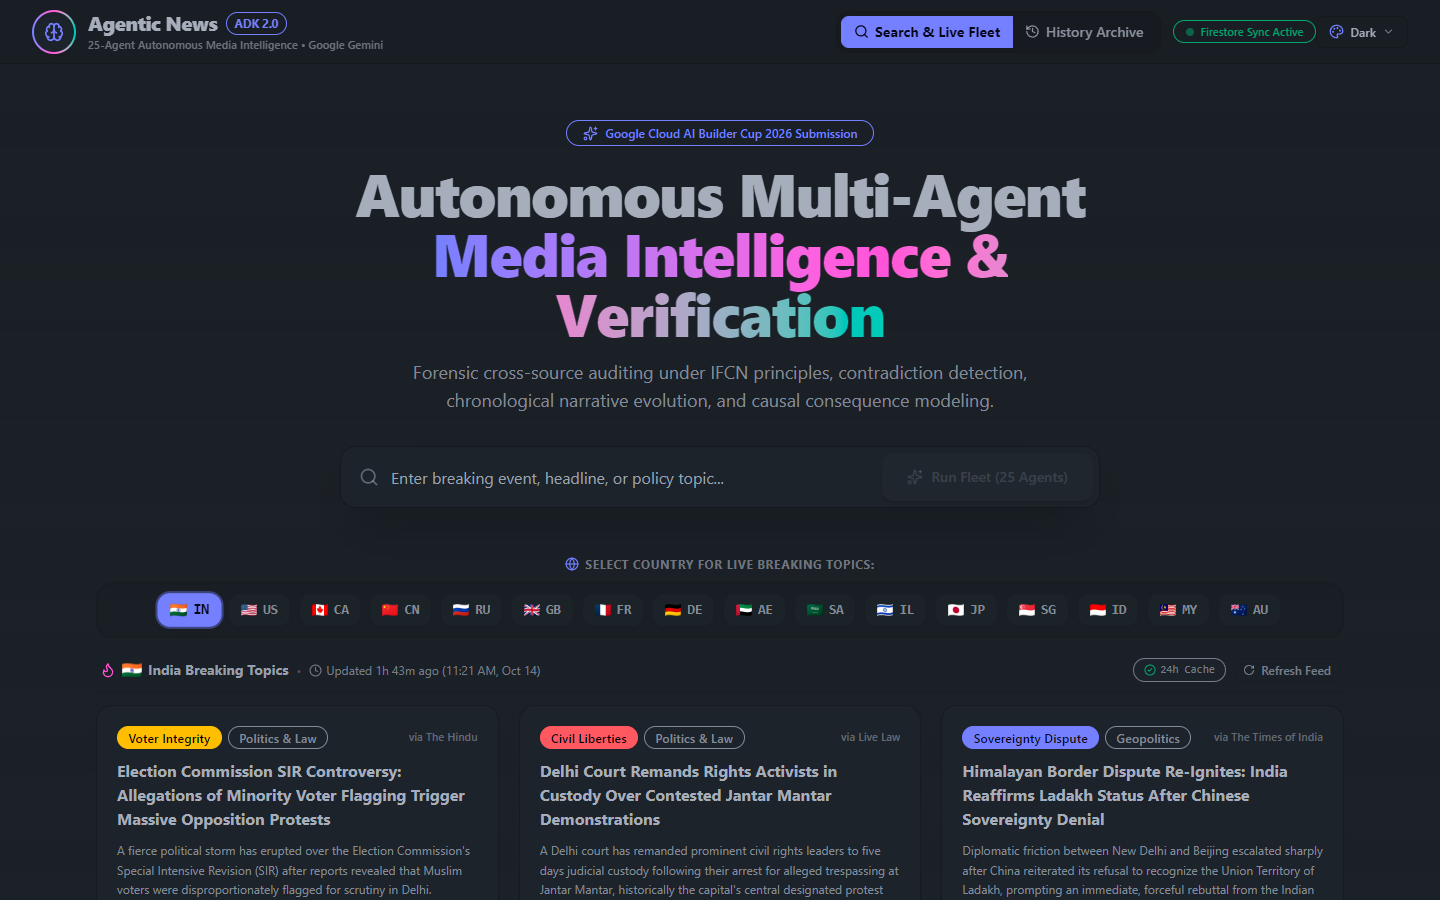
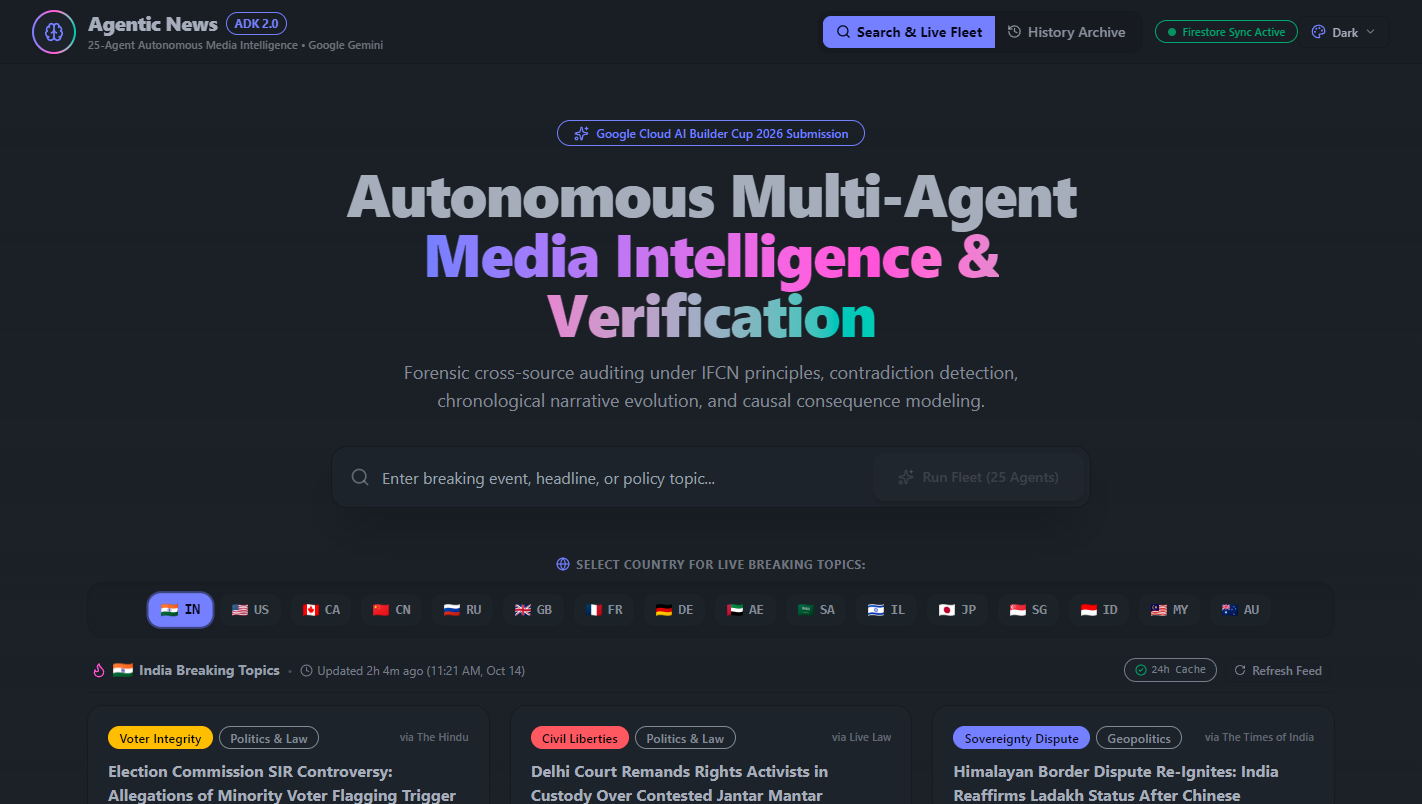
fix(docs): fix scrolling blank area and polish smooth looping animations for submission GIFs

diff --git a/backend/tests/generate_all_submission_media.js b/backend/tests/generate_all_submission_media.js
@@ -1,0 +1,349 @@
+/**
+ * Master Script: Automated Capture and Generation of Dynamic Submission Media
+ * 
+ * Features:
+ * 1. Pixel-perfect screenshots using modern Chrome CDP (headless=new).
+ * 2. Sticky Navbar & Sticky Sidebar preserved (no blank top regions!).
+ * 3. Smooth multi-frame scrolling animations for all 8 analysis tabs and History archive.
+ * 4. Infinite looping (Netscape 2.0 loop extension injected into all GIFs).
+ * 5. Generates both crisp static PNGs and looping GIFs under 10 MB total.
+ */
+
+const { spawn } = require('child_process');
+const http = require('http');
+const fs = require('fs');
+const os = require('os');
+const path = require('path');
+
+const ASSETS_DIR = path.resolve(__dirname, '../../docs/submission/assets');
+const TEMP_DIR = path.resolve(__dirname, 'temp_frames');
+
+if (!fs.existsSync(ASSETS_DIR)) fs.mkdirSync(ASSETS_DIR, { recursive: true });
+if (!fs.existsSync(TEMP_DIR)) fs.mkdirSync(TEMP_DIR, { recursive: true });
+
+function patchGifMultiDelay(gifPath, delays100ths) {
+  const data = fs.readFileSync(gifPath);
+  let gceIndex = 0;
+  let i = 0;
+  const out = Buffer.from(data);
+
+  while (i < out.length - 7) {
+    if (out[i] === 0x21 && out[i + 1] === 0xF9 && out[i + 2] === 0x04) {
+      const delay = delays100ths[gceIndex % delays100ths.length];
+      out[i + 4] = delay & 0xFF;
+      out[i + 5] = (delay >> 8) & 0xFF;
+      gceIndex++;
+      i += 7;
+    } else {
+      i++;
+    }
+  }
+
+  let finalBuf = out;
+  if (!out.includes(Buffer.from('NETSCAPE2.0'))) {
+    const firstGce = out.indexOf(Buffer.from([0x21, 0xF9, 0x04]));
+    if (firstGce !== -1) {
+      const netscapeExt = Buffer.from([
+        0x21, 0xFF, 0x0B, 0x4E, 0x45, 0x54, 0x53, 0x43, 0x41, 0x50, 0x45, 0x32, 0x2E, 0x30, 0x03, 0x01, 0x00, 0x00, 0x00
+      ]);
+      finalBuf = Buffer.concat([out.subarray(0, firstGce), netscapeExt, out.subarray(firstGce)]);
+    }
+  }
+
+  fs.writeFileSync(gifPath, finalBuf);
+}
+
+function buildGifFromFrames(framePaths, targetGif, delays, width = 960, height = 600) {
+  const framesArg = framePaths.map(p => `'${p.replace(/'/g, "''")}'`).join(',');
+  const psScript = `
+    Add-Type -AssemblyName System.Drawing
+    $frames = @(${framesArg})
+    $target = '${targetGif.replace(/'/g, "''")}'
+
+    $sourceImages = @()
+    foreach ($f in $frames) {
+        $orig = [System.Drawing.Image]::FromFile($f)
+        $bmp = New-Object System.Drawing.Bitmap ${width}, ${height}
+        $g = [System.Drawing.Graphics]::FromImage($bmp)
+        $g.InterpolationMode = [System.Drawing.Drawing2D.InterpolationMode]::HighQualityBicubic
+        $g.DrawImage($orig, 0, 0, ${width}, ${height})
+        $g.Dispose()
+        $orig.Dispose()
+        $sourceImages += $bmp
+    }
+
+    $codec = [System.Drawing.Imaging.ImageCodecInfo]::GetImageEncoders() | Where-Object { $_.MimeType -eq "image/gif" }
+    $encParamsFirst = New-Object System.Drawing.Imaging.EncoderParameters 1
+    $encParamsFirst.Param[0] = New-Object System.Drawing.Imaging.EncoderParameter ([System.Drawing.Imaging.Encoder]::SaveFlag, [long][System.Drawing.Imaging.EncoderValue]::MultiFrame)
+    $encParamsAdd = New-Object System.Drawing.Imaging.EncoderParameters 1
+    $encParamsAdd.Param[0] = New-Object System.Drawing.Imaging.EncoderParameter ([System.Drawing.Imaging.Encoder]::SaveFlag, [long][System.Drawing.Imaging.EncoderValue]::FrameDimensionTime)
+    $encParamsFlush = New-Object System.Drawing.Imaging.EncoderParameters 1
+    $encParamsFlush.Param[0] = New-Object System.Drawing.Imaging.EncoderParameter ([System.Drawing.Imaging.Encoder]::SaveFlag, [long][System.Drawing.Imaging.EncoderValue]::Flush)
+
+    $first = $sourceImages[0]
+    $first.Save($target, $codec, $encParamsFirst)
+    for ($i = 1; $i -lt $sourceImages.Count; $i++) {
+        $first.SaveAdd($sourceImages[$i], $encParamsAdd)
+    }
+    $first.SaveAdd($encParamsFlush)
+    foreach ($img in $sourceImages) { $img.Dispose() }
+  `;
+
+  return new Promise((resolve, reject) => {
+    const child = spawn('powershell', ['-NoProfile', '-Command', psScript]);
+    child.on('close', code => {
+      if (code === 0) {
+        patchGifMultiDelay(targetGif, delays);
+        const sizeKb = (fs.statSync(targetGif).size / 1024).toFixed(1);
+        console.log(`  -> Generated ${path.basename(targetGif)} (${sizeKb} KB, infinite loop)`);
+        resolve();
+      } else {
+        reject(new Error(`PowerShell GIF assembly failed with code ${code}`));
+      }
+    });
+  });
+}
+
+class ChromeClient {
+  constructor(port = 9345) {
+    this.port = port;
+    this.chromeProcess = null;
+    this.ws = null;
+    this.msgId = 1;
+  }
+
+  async start() {
+    const userData = path.join(os.tmpdir(), 'chrome_media_' + Date.now());
+    this.chromeProcess = spawn('C:\\Program Files\\Google\\Chrome\\Application\\chrome.exe', [
+      '--headless=new',
+      `--remote-debugging-port=${this.port}`,
+      '--window-size=1440,900',
+      '--hide-scrollbars',
+      `--user-data-dir=${userData}`,
+      'about:blank'
+    ]);
+
+    await new Promise(r => setTimeout(r, 2000));
+
+    const targets = await new Promise((resolve, reject) => {
+      http.get(`http://127.0.0.1:${this.port}/json`, res => {
+        let data = '';
+        res.on('data', chunk => data += chunk);
+        res.on('end', () => resolve(JSON.parse(data)));
+      }).on('error', reject);
+    });
+
+    const target = targets.find(t => t.type === 'page');
+    if (!target) throw new Error('No page target found in Chrome');
+
+    this.ws = new WebSocket(target.webSocketDebuggerUrl);
+    await new Promise((resolve) => this.ws.onopen = resolve);
+    await this.send('Page.enable');
+  }
+
+  send(method, params = {}) {
+    return new Promise((resolve) => {
+      const id = this.msgId++;
+      const handler = (evt) => {
+        const resp = JSON.parse(evt.data);
+        if (resp.id === id) {
+          this.ws.removeEventListener('message', handler);
+          resolve(resp.result);
+        }
+      };
+      this.ws.addEventListener('message', handler);
+      this.ws.send(JSON.stringify({ id, method, params }));
+    });
+  }
+
+  async navigate(url, waitMs = 2500) {
+    await this.send('Page.navigate', { url });
+    await new Promise(r => setTimeout(r, waitMs));
+  }
+
+  async evaluate(expression) {
+    return await this.send('Runtime.evaluate', { expression, returnByValue: true });
+  }
+
+  async screenshot(filePath) {
+    const res = await this.send('Page.captureScreenshot', { format: 'png' });
+    fs.writeFileSync(filePath, Buffer.from(res.data, 'base64'));
+  }
+
+  close() {
+    try { if (this.ws) this.ws.close(); } catch (_) {}
+    try { if (this.chromeProcess) this.chromeProcess.kill(); } catch (_) {}
+  }
+}
+
+async function main() {
+  console.log('================================================================');
+  console.log(' Automated Media Generator: High-Fidelity Looping GIFs & Static Assets');
+  console.log('================================================================');
+
+  const client = new ChromeClient(9346);
+  await client.start();
+
+  try {
+    // -------------------------------------------------------------
+    // 1. Home Dashboard: 5 Countries Looping GIF
+    // -------------------------------------------------------------
+    console.log('\n[1/4] Capturing 5-Country Regional Dashboard...');
+    const countries = [
+      { code: 'IN', label: 'India 🇮🇳' },
+      { code: 'US', label: 'United States 🇺🇸' },
+      { code: 'GB', label: 'United Kingdom 🇬🇧' },
+      { code: 'JP', label: 'Japan 🇯🇵' },
+      { code: 'DE', label: 'Germany 🇩🇪' }
+    ];
+
+    const countryFrames = [];
+    for (const c of countries) {
+      console.log(`  Capturing ${c.label} (?country=${c.code})...`);
+      await client.navigate(`http://localhost:5173/?country=${c.code}`, 2200);
+      const framePath = path.join(TEMP_DIR, `home_country_${c.code}.png`);
+      await client.screenshot(framePath);
+      countryFrames.push(framePath);
+    }
+
+    // Static default hero overview
+    fs.copyFileSync(countryFrames[0], path.join(ASSETS_DIR, 'hero-overview.png'));
+    await buildGifFromFrames(
+      countryFrames,
+      path.join(ASSETS_DIR, 'home-countries.gif'),
+      [280, 280, 280, 280, 280]
+    );
+
+    // -------------------------------------------------------------
+    // 2. 8 Analysis Tabs: Smooth Multi-Frame Scrolling GIFs
+    // -------------------------------------------------------------
+    console.log('\n[2/4] Capturing 8 Multi-Section Analysis Tabs with Smooth Scrolling...');
+    const analysisUrl = 'http://localhost:5173/analysis/09c0dbae-2b01-4852-83de-ddc89fdb6614';
+
+    const tabs = [
+      { name: 'tab-01-brief', hash: '#brief', maxScroll: 660 },
+      { name: 'tab-02-sources', hash: '#sources', maxScroll: 620 },
+      { name: 'tab-03-verification', hash: '#verification', maxScroll: 660 },
+      { name: 'tab-04-timeline', hash: '#timeline', maxScroll: 600 },
+      { name: 'tab-05-insights', hash: '#insights', maxScroll: 650 },
+      { name: 'tab-06-quiz', hash: '#quiz', maxScroll: 520 },
+      { name: 'tab-07-debate', hash: '#debate', maxScroll: 560 },
+      { name: 'tab-08-copilot', hash: '#copilot', maxScroll: 480 },
+    ];
+
+    const walkthroughFrames = [path.join(ASSETS_DIR, 'hero-overview.png')];
+
+    // Load analysis page once, then switch hashes
+    await client.navigate(`${analysisUrl}#brief`, 2500);
+
+    for (const tab of tabs) {
+      console.log(`\n  Processing ${tab.name} (${tab.hash})...`);
+
+      // Switch tab and wait for tab transition
+      await client.evaluate(`
+        window.location.hash = '${tab.hash}';
+        window.dispatchEvent(new HashChangeEvent('hashchange'));
+        window.scrollTo({ top: 0, behavior: 'instant' });
+      `);
+      await new Promise(r => setTimeout(r, 600));
+
+      // 1. Capture Top Resting View (Scroll 0)
+      const topFrame = path.join(TEMP_DIR, `${tab.name}_top.png`);
+      await client.screenshot(topFrame);
+      // Save crisp static PNG for documentation
+      fs.copyFileSync(topFrame, path.join(ASSETS_DIR, `${tab.name}.png`));
+      walkthroughFrames.push(topFrame);
+
+      // 2. Capture Smooth Multi-Frame Scroll
+      const s1 = Math.round(tab.maxScroll * 0.33);
+      const s2 = Math.round(tab.maxScroll * 0.67);
+      const sMax = tab.maxScroll;
+      const sBack = Math.round(tab.maxScroll * 0.50);
+
+      const scrollSteps = [
+        { pos: 0, delay: 260 },      // Top view rests for 2.6s
+        { pos: s1, delay: 16 },      // Smooth scroll step 1 (0.16s)
+        { pos: s2, delay: 16 },      // Smooth scroll step 2 (0.16s)
+        { pos: sMax, delay: 280 },    // Deep dive view rests for 2.8s
+        { pos: sBack, delay: 16 }     // Smooth scroll return (0.16s)
+      ];
+
+      const tabFrames = [topFrame];
+
+      for (let i = 1; i < scrollSteps.length; i++) {
+        const step = scrollSteps[i];
+        await client.evaluate(`window.scrollTo({ top: ${step.pos}, behavior: 'instant' });`);
+        await new Promise(r => setTimeout(r, 120));
+        const fPath = path.join(TEMP_DIR, `${tab.name}_step_${i}.png`);
+        await client.screenshot(fPath);
+        tabFrames.push(fPath);
+      }
+
+      // Reset scroll to top
+      await client.evaluate(`window.scrollTo({ top: 0, behavior: 'instant' });`);
+      await new Promise(r => setTimeout(r, 100));
+
+      // Build smooth scrolling GIF
+      const delays = scrollSteps.map(s => s.delay);
+      await buildGifFromFrames(tabFrames, path.join(ASSETS_DIR, `${tab.name}.gif`), delays);
+    }
+
+    // -------------------------------------------------------------
+    // 3. History Archive: Multi-Frame Scrolling GIF & Static PNG
+    // -------------------------------------------------------------
+    console.log('\n[3/4] Capturing History Investigation Archive...');
+    await client.navigate('http://localhost:5173/history', 2200);
+
+    const historyTop = path.join(TEMP_DIR, 'history_top.png');
+    await client.screenshot(historyTop);
+    fs.copyFileSync(historyTop, path.join(ASSETS_DIR, 'history-archive.png'));
+    walkthroughFrames.push(historyTop);
+
+    const histSteps = [
+      { pos: 0, delay: 260 },
+      { pos: 180, delay: 16 },
+      { pos: 360, delay: 16 },
+      { pos: 540, delay: 280 },
+      { pos: 270, delay: 16 }
+    ];
+
+    const histFrames = [historyTop];
+    for (let i = 1; i < histSteps.length; i++) {
+      const step = histSteps[i];
+      await client.evaluate(`window.scrollTo({ top: ${step.pos}, behavior: 'instant' });`);
+      await new Promise(r => setTimeout(r, 120));
+      const fPath = path.join(TEMP_DIR, `history_step_${i}.png`);
+      await client.screenshot(fPath);
+      histFrames.push(fPath);
+    }
+
+    await buildGifFromFrames(
+      histFrames,
+      path.join(ASSETS_DIR, 'history-archive.gif'),
+      histSteps.map(s => s.delay)
+    );
+
+    // -------------------------------------------------------------
+    // 4. Full App Walkthrough Tour
+    // -------------------------------------------------------------
+    console.log('\n[4/4] Building Multi-Page App Walkthrough Tour GIF...');
+    const walkthroughDelays = walkthroughFrames.map(() => 260); // 2.6s per key screen
+    await buildGifFromFrames(
+      walkthroughFrames,
+      path.join(ASSETS_DIR, 'app-walkthrough.gif'),
+      walkthroughDelays
+    );
+
+    console.log('\n================================================================');
+    console.log(' All media successfully generated with smooth scrolling & infinite loops!');
+    console.log('================================================================\n');
+
+  } finally {
+    client.close();
+  }
+}
+
+main().catch(err => {
+  console.error('Fatal execution error:', err);
+  process.exit(1);
+});

diff --git a/frontend/src/components/AnalysisReportView.tsx b/frontend/src/components/AnalysisReportView.tsx
@@ -187,6 +187,17 @@ export const AnalysisReportView: React.FC<AnalysisReportViewProps> = ({
     return initialTab;
   });
 
+  useEffect(() => {
+    const onHashChange = () => {
+      const h = window.location.hash.replace('#', '');
+      if (['brief', 'sources', 'verification', 'timeline', 'insights', 'quiz', 'debate', 'copilot'].includes(h)) {
+        setActiveTab(h as any);
+      }
+    };
+    window.addEventListener('hashchange', onHashChange);
+    return () => window.removeEventListener('hashchange', onHashChange);
+  }, []);
+
   // Check if sections are already saved in the report
   const hasSavedScenarios = !!(
     (report.future_scenarios && report.future_scenarios.length > 0) ||

diff --git a/frontend/src/App.tsx b/frontend/src/App.tsx
@@ -49,11 +49,11 @@ function MainAppLayout() {
   };
 
   return (
-    <div className="drawer min-h-screen bg-base-100 text-base-content font-sans overflow-x-hidden">
+    <div className="drawer min-h-screen bg-base-100 text-base-content font-sans overflow-x-clip">
       <input id="main-drawer" type="checkbox" className="drawer-toggle" />
 
       {/* Drawer Content */}
-      <div className="drawer-content flex flex-col min-h-screen overflow-x-hidden">
+      <div className="drawer-content flex flex-col min-h-screen overflow-x-clip">
         <Navbar />
 
         <ScrollToTop />

diff --git a/frontend/src/pages/AnalysisDetailPage.tsx b/frontend/src/pages/AnalysisDetailPage.tsx
@@ -42,10 +42,6 @@ export const AnalysisDetailPage: React.FC = () => {
       window.scrollTo({ top, left: 0, behavior: 'instant' });
       document.documentElement.scrollTop = top;
       document.body.scrollTop = top;
-      const drawerContent = document.querySelector('.drawer-content');
-      if (drawerContent) {
-        drawerContent.scrollTop = top;
-      }
     };
 
     applyScroll();
